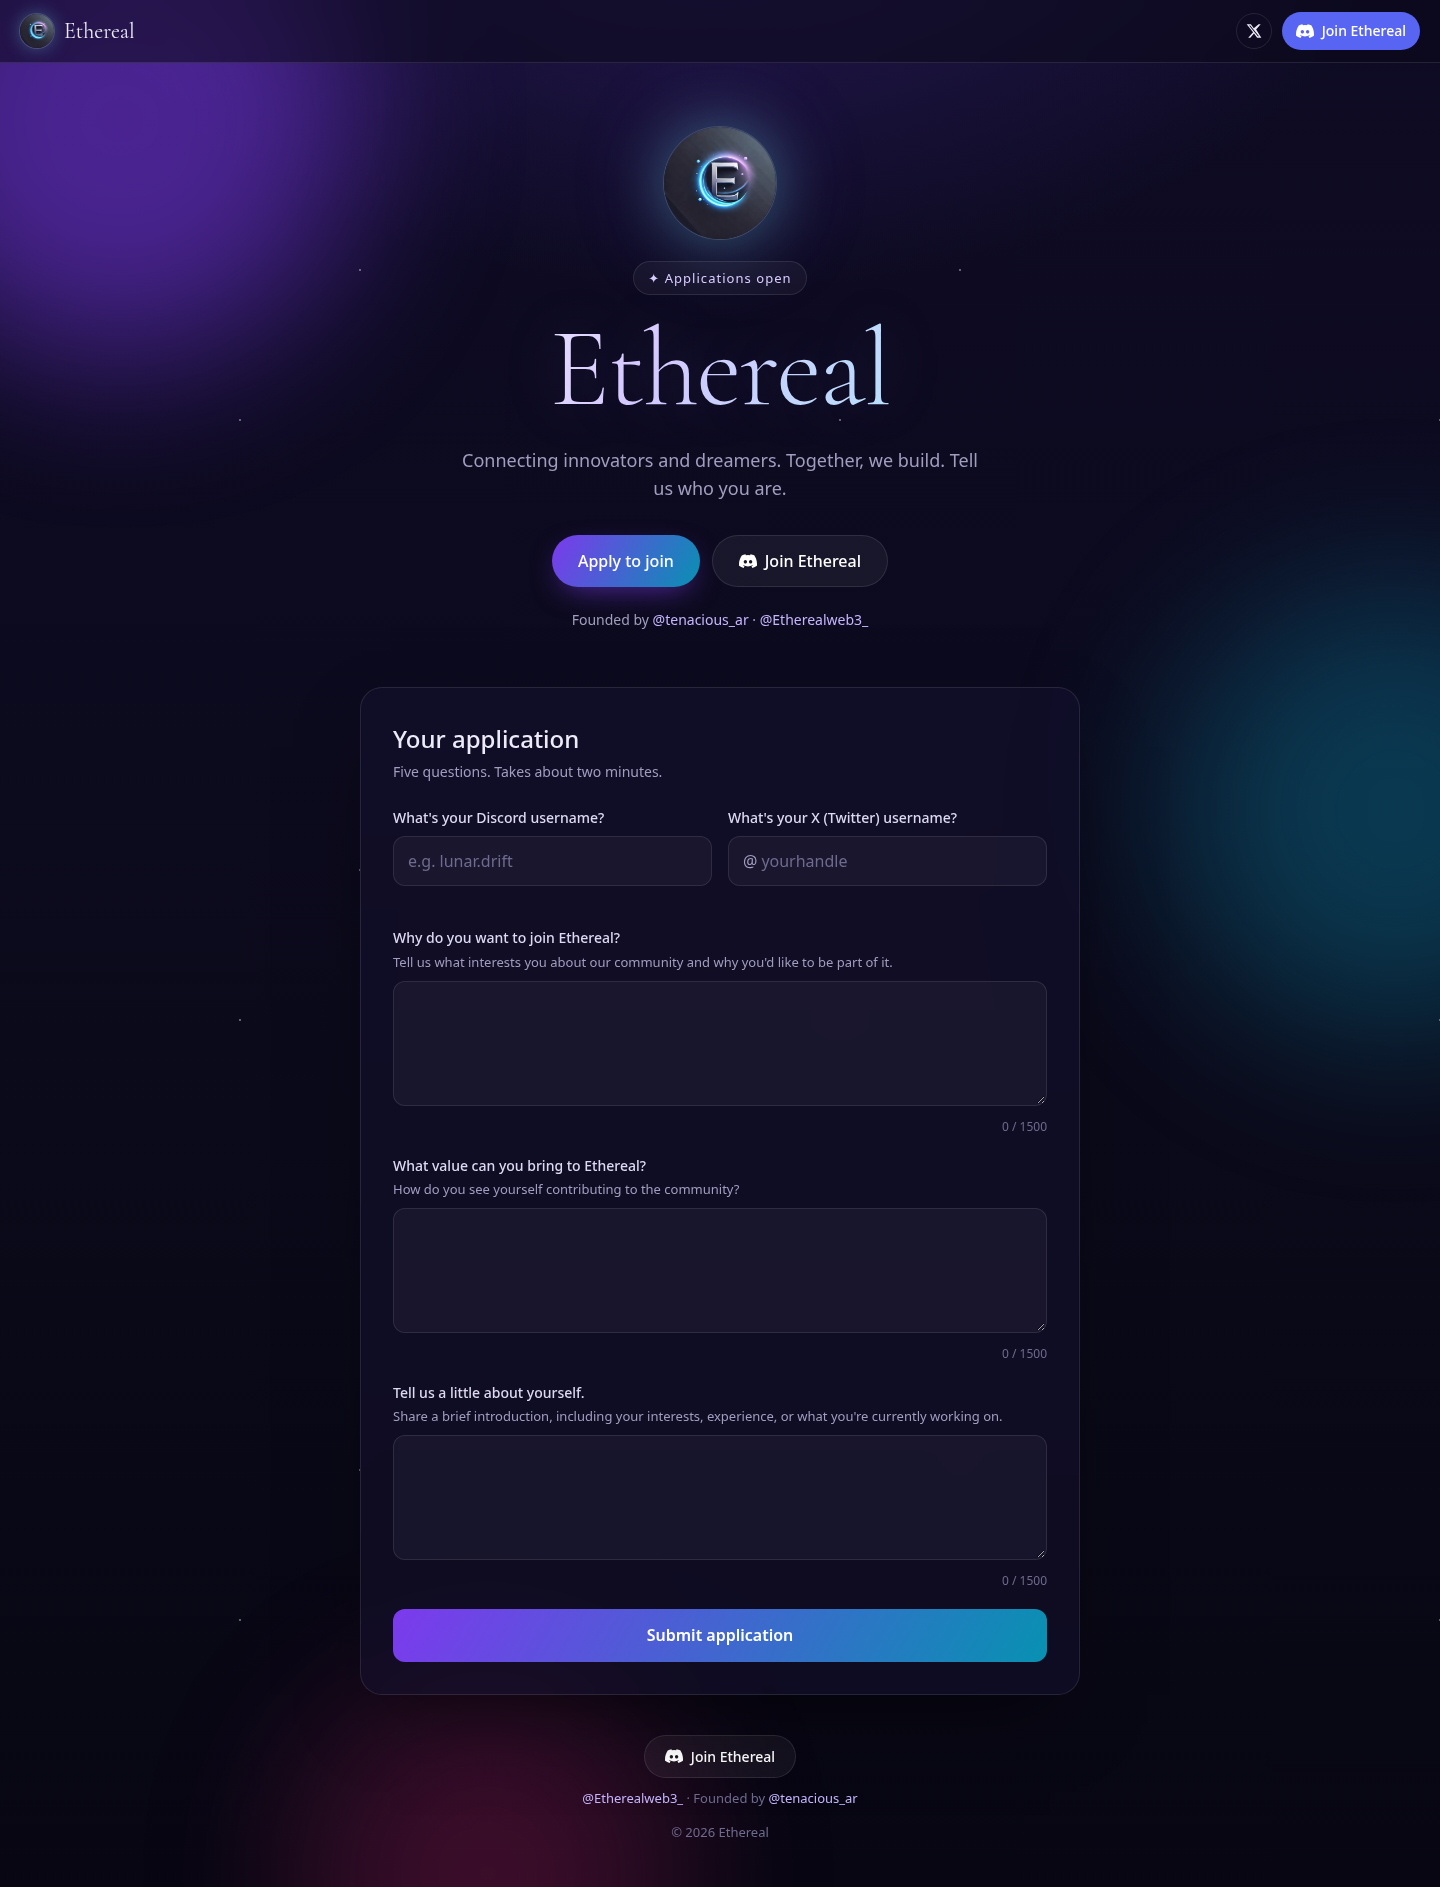
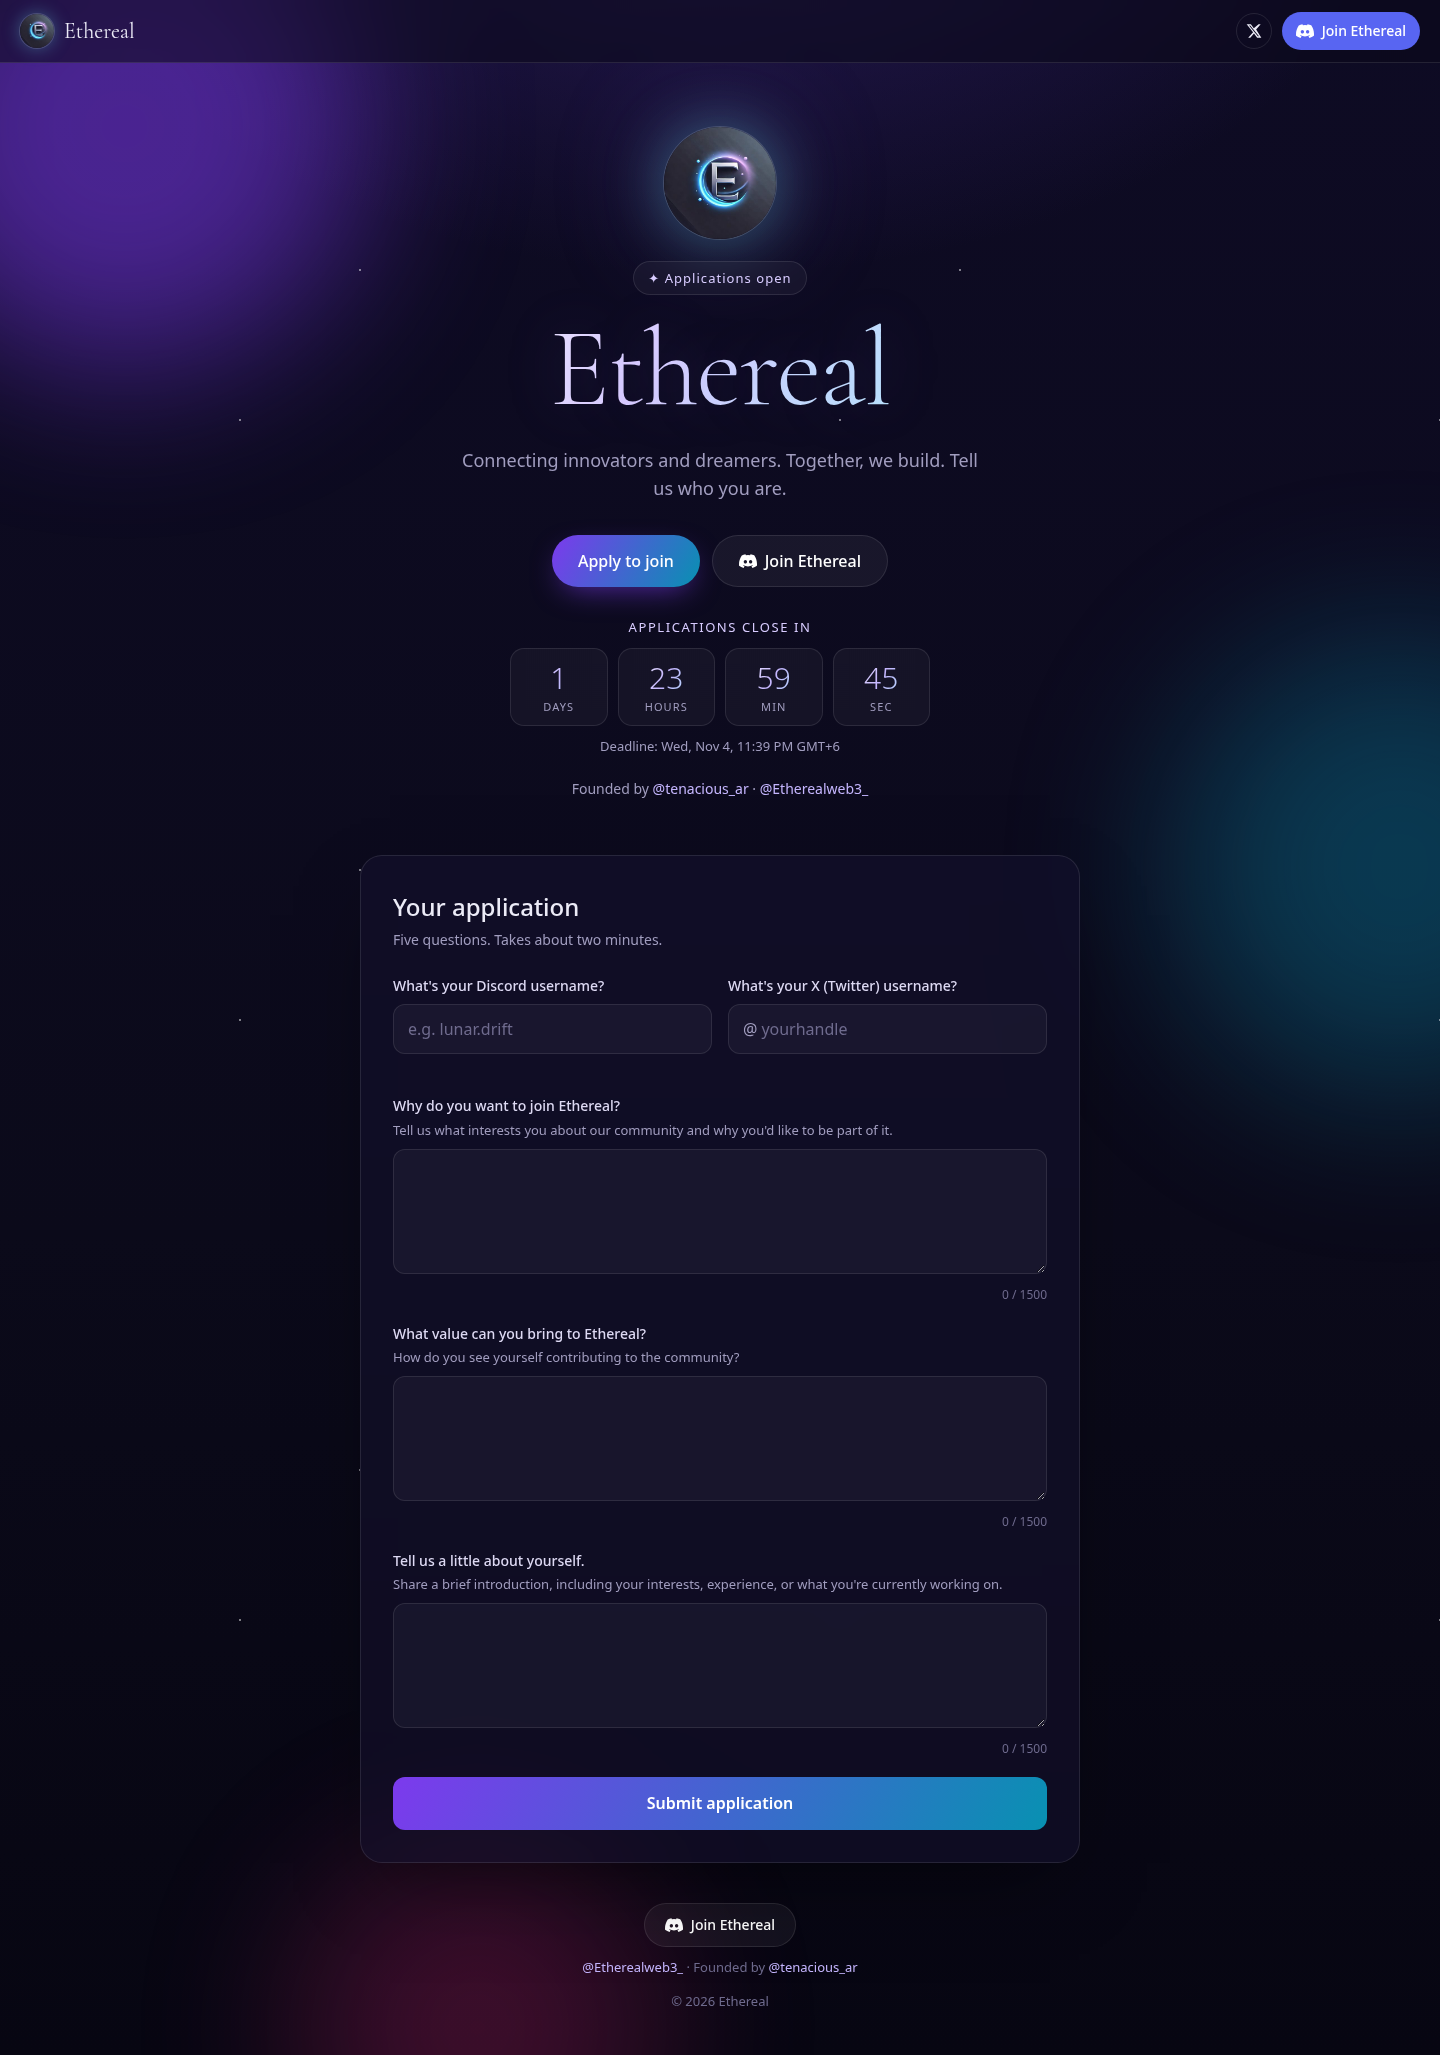
Add application deadline (APPLICATIONS_CLOSE_AT) with countdown/closed state, /api/status, admin CSV export and status header

diff --git a/server.js b/server.js
@@ -18,6 +18,12 @@ try {
 const PORT = Number(process.env.PORT) || 3000;
 const ADMIN_PASSWORD = process.env.ADMIN_PASSWORD || '';
 const DISCORD_WEBHOOK_URL = process.env.DISCORD_WEBHOOK_URL || '';
+const CLOSE_RAW = (process.env.APPLICATIONS_CLOSE_AT || '').trim();
+const CLOSE_AT = CLOSE_RAW ? new Date(CLOSE_RAW) : null;
+if (CLOSE_RAW && isNaN(CLOSE_AT)) console.warn(`APPLICATIONS_CLOSE_AT is not a valid ISO 8601 date ("${CLOSE_RAW}"); ignoring it.`);
+const closesAtISO = () => (CLOSE_AT && !isNaN(CLOSE_AT) ? CLOSE_AT.toISOString() : null);
+const isOpen = () => { const c = closesAtISO(); return !c || Date.now() < CLOSE_AT.getTime(); };
+const CLOSED_MSG = 'Applications are closed. Thank you for your interest in Ethereal!';
 const DATA_FILE = path.resolve(process.env.DATA_FILE || path.join(__dirname, 'applications.json'));
 
 const app = express();
@@ -111,7 +117,12 @@ async function postToDiscord(a) {
 }
 
 // ---------- API ----------
+app.get('/api/status', (req, res) => {
+  res.set('Cache-Control', 'no-store').json({ open: isOpen(), closesAt: closesAtISO(), now: new Date().toISOString() });
+});
+
 app.post('/api/apply', async (req, res) => {
+  if (!isOpen()) return res.status(403).json({ ok: false, closed: true, error: CLOSED_MSG });
   const body = req.body || {};
   // Honeypot: real users never fill "website". Pretend success for bots.
   if (typeof body.website === 'string' && body.website.trim() !== '') {
@@ -142,9 +153,26 @@ function requireAdmin(req, res, next) {
 }
 const esc = (s) => String(s).replace(/[&<>"']/g, (c) => ({ '&': '&amp;', '<': '&lt;', '>': '&gt;', '"': '&quot;', "'": '&#39;' }[c]));
 
+const csvCell = (v) => {
+  let t = v == null ? '' : String(v);
+  if (/^[=+\-@\t\r]/.test(t)) t = "'" + t; // guard against spreadsheet formula injection
+  return '"' + t.replace(/"/g, '""') + '"';
+};
+app.get('/admin/applications.csv', requireAdmin, (req, res) => {
+  const header = ['id', 'submitted time', 'Discord username', 'X username', 'why join', 'value', 'about'];
+  const rows = readApps().map((a) => [a.id, a.submittedAt, a.discord, a.x, a.why, a.value, a.about]);
+  const csv = '\uFEFF' + [header, ...rows].map((r) => r.map(csvCell).join(',')).join('\r\n') + '\r\n';
+  const stamp = new Date().toISOString().slice(0, 10);
+  res.set({
+    'Content-Type': 'text/csv; charset=utf-8',
+    'Content-Disposition': `attachment; filename="ethereal-applications-${stamp}.csv"`,
+    'Cache-Control': 'no-store',
+  }).send(csv);
+});
 app.get('/admin/applications.json', requireAdmin, (req, res) => res.json(readApps()));
 app.get('/admin', requireAdmin, (req, res) => {
   const apps = readApps().slice().reverse();
+  const open = isOpen(), closes = closesAtISO();
   const rows = apps.map((a) => `
     <article class="card">
       <header><span class="lbl">Discord</span> <strong>${esc(a.discord)}</strong> · <span class="lbl">X</span> · <a href="https://x.com/${esc(a.x)}" target="_blank" rel="noopener">@${esc(a.x)}</a>
@@ -164,11 +192,23 @@ h1{font-weight:600;margin:0 0 4px}.sub{color:#9a96b8;margin:0 0 24px}a{color:#c4
 .card header{display:flex;flex-wrap:wrap;gap:6px;align-items:baseline}.card time{margin-left:auto;color:#8b87a8;font-size:12px}
 h4{margin:14px 0 4px;font-size:13px;font-weight:600;color:#a78bfa}.lbl{color:#8b87a8;font-size:12px}
 p{margin:0;white-space:pre-wrap;line-height:1.5;color:#d4d1e8}
+.status{display:flex;flex-wrap:wrap;gap:10px 18px;align-items:center;margin:8px 0 14px;color:#d4d1e8}
+.pill{padding:3px 10px;border-radius:999px;font-size:12px;font-weight:600;text-transform:uppercase;letter-spacing:.06em}
+.pill.open{background:rgba(52,211,153,.15);color:#6ee7b7}.pill.closed{background:rgba(251,113,133,.15);color:#fda4af}
+.sub{display:flex;gap:14px;align-items:center}
+.btn{display:inline-block;padding:8px 14px;border-radius:10px;background:linear-gradient(120deg,#7c3aed,#0891b2);color:#fff!important;text-decoration:none;font-weight:600}
 </style></head><body>
-<h1>Applications</h1><p class="sub">${apps.length} total · <a href="/admin/applications.json">JSON</a></p>
+<h1>Applications</h1>
+<div class="status">
+  <span class="pill ${open ? 'open' : 'closed'}">${open ? 'Open' : 'Closed'}</span>
+  <span>${closes ? `${open ? 'Closes' : 'Closed'} <time id="closes" datetime="${esc(closes)}">${esc(new Date(closes).toUTCString())}</time>` : 'No deadline set (APPLICATIONS_CLOSE_AT not set)'}</span>
+  <span class="total"><strong>${apps.length}</strong> total application${apps.length === 1 ? '' : 's'}</span>
+</div>
+<p class="sub"><a class="btn" href="/admin/applications.csv">Download CSV</a> <a href="/admin/applications.json">JSON</a></p>
+<script>const t=document.getElementById('closes');if(t)t.textContent=new Date(t.dateTime).toLocaleString(undefined,{dateStyle:'full',timeStyle:'short'})+' (your local time)';</script>
 <div class="grid">${rows || '<p>No applications yet.</p>'}</div></body></html>`);
 });
 
 app.use((req, res) => res.status(404).send('Not found'));
 
-app.listen(PORT, () => console.log(`Ethereal running on http://localhost:${PORT}`));
+app.listen(PORT, () => console.log(`Ethereal running on http://localhost:${PORT}` + (closesAtISO() ? ` · applications close at ${closesAtISO()}` : '')));

diff --git a/public/index.html b/public/index.html
@@ -35,6 +35,16 @@
       <a class="cta" href="#apply">Apply to join</a>
       <a class="cta ghost" href="https://discord.gg/nZYb5DTMH" target="_blank" rel="noopener noreferrer"><svg viewBox="0 0 24 24" aria-hidden="true"><path fill="currentColor" d="M20.3 4.4A19.6 19.6 0 0 0 15.4 3l-.6 1.3a18 18 0 0 0-5.6 0L8.6 3a19.5 19.5 0 0 0-4.9 1.5C.6 9.1-.3 13.7.1 18.2a19.8 19.8 0 0 0 6 3l1.3-2.1a12.8 12.8 0 0 1-2-1l.5-.4a14 14 0 0 0 12.2 0l.5.4c-.6.4-1.3.7-2 1l1.3 2.1a19.7 19.7 0 0 0 6-3c.5-5.2-.8-9.7-3.6-13.8ZM8.5 15.4c-1.2 0-2.2-1.1-2.2-2.4s1-2.4 2.2-2.4 2.2 1.1 2.2 2.4-1 2.4-2.2 2.4Zm7 0c-1.2 0-2.2-1.1-2.2-2.4s1-2.4 2.2-2.4 2.2 1.1 2.2 2.4-1 2.4-2.2 2.4Z"/></svg>Join Ethereal</a>
     </div>
+    <div id="countdown" class="countdown" hidden aria-live="off">
+      <p class="cd-label">Applications close in</p>
+      <div class="cd-units">
+        <div><span id="cd-d">0</span><small>days</small></div>
+        <div><span id="cd-h">00</span><small>hours</small></div>
+        <div><span id="cd-m">00</span><small>min</small></div>
+        <div><span id="cd-s">00</span><small>sec</small></div>
+      </div>
+      <p class="cd-when" id="cd-when"></p>
+    </div>
     <p class="founder">Founded by <a href="https://x.com/tenacious_ar" target="_blank" rel="noopener noreferrer">@tenacious_ar</a> · <a href="https://x.com/Etherealweb3_" target="_blank" rel="noopener noreferrer">@Etherealweb3_</a></p>
   </section>
 
@@ -86,6 +96,15 @@
       <p class="form-error" id="formError" role="alert"></p>
       <button type="submit" id="submit"><span>Submit application</span></button>
     </form>
+
+    <div id="closed" class="success closed" hidden>
+      <img class="check" src="/logo.jpg" alt="" width="72" height="72">
+      <h2>Applications are now closed.</h2>
+      <p>Thank you for your interest in Ethereal!</p>
+      <p class="cd-when" id="closed-when"></p>
+      <a class="cta discord" href="https://discord.gg/nZYb5DTMH" target="_blank" rel="noopener noreferrer"><svg viewBox="0 0 24 24" aria-hidden="true"><path fill="currentColor" d="M20.3 4.4A19.6 19.6 0 0 0 15.4 3l-.6 1.3a18 18 0 0 0-5.6 0L8.6 3a19.5 19.5 0 0 0-4.9 1.5C.6 9.1-.3 13.7.1 18.2a19.8 19.8 0 0 0 6 3l1.3-2.1a12.8 12.8 0 0 1-2-1l.5-.4a14 14 0 0 0 12.2 0l.5.4c-.6.4-1.3.7-2 1l1.3 2.1a19.7 19.7 0 0 0 6-3c.5-5.2-.8-9.7-3.6-13.8ZM8.5 15.4c-1.2 0-2.2-1.1-2.2-2.4s1-2.4 2.2-2.4 2.2 1.1 2.2 2.4-1 2.4-2.2 2.4Zm7 0c-1.2 0-2.2-1.1-2.2-2.4s1-2.4 2.2-2.4 2.2 1.1 2.2 2.4-1 2.4-2.2 2.4Z"/></svg>Join our Discord</a>
+      <p><a href="https://discord.gg/nZYb5DTMH" target="_blank" rel="noopener noreferrer">https://discord.gg/nZYb5DTMH</a></p>
+    </div>
 
     <div id="success" class="success" hidden>
       <img class="check" src="/logo.jpg" alt="" width="72" height="72">

diff --git a/public/app.js b/public/app.js
@@ -36,6 +36,46 @@
     });
   }
 
+  // ---------- deadline / countdown ----------
+  const $ = (id) => document.getElementById(id);
+  const closed = $('closed'), cd = $('countdown'), eyebrow = document.querySelector('.eyebrow');
+  let closesAt = null, skew = 0, timer = null;
+  const fmtLocal = (d) => d.toLocaleString(undefined, { weekday: 'short', month: 'short', day: 'numeric', hour: 'numeric', minute: '2-digit', timeZoneName: 'short' });
+  const pad = (n) => String(n).padStart(2, '0');
+
+  function showClosed() {
+    clearInterval(timer);
+    form.hidden = true; success.hidden = true; closed.hidden = false; cd.hidden = true;
+    if (eyebrow) eyebrow.textContent = '✦ Applications closed';
+    if (closesAt) $('closed-when').textContent = `Closed ${fmtLocal(closesAt)}`;
+    const cta = document.querySelector('.ctas .cta[href="#apply"]'); if (cta) cta.hidden = true;
+  }
+  function tick() {
+    const ms = closesAt.getTime() - (Date.now() + skew);
+    if (ms <= 0) {
+      clearInterval(timer);
+      if (!success.hidden) { cd.hidden = true; return; }
+      // Don't yank the form away from someone mid-typing; the server will reject on submit.
+      const typing = ['discord', 'x', 'why', 'value', 'about'].some((k) => form.elements[k].value.trim());
+      if (typing) { cd.querySelector('.cd-label').textContent = 'Applications have closed'; cd.querySelector('.cd-units').hidden = true; }
+      else showClosed();
+      return;
+    }
+    const t = Math.floor(ms / 1000);
+    $('cd-d').textContent = Math.floor(t / 86400);
+    $('cd-h').textContent = pad(Math.floor(t / 3600) % 24);
+    $('cd-m').textContent = pad(Math.floor(t / 60) % 60);
+    $('cd-s').textContent = pad(t % 60);
+  }
+  fetch('/api/status', { cache: 'no-store' }).then((r) => r.json()).then((st) => {
+    if (st.now) skew = new Date(st.now).getTime() - Date.now(); // align with server clock
+    if (st.closesAt) closesAt = new Date(st.closesAt);
+    if (!st.open) return showClosed();
+    if (!closesAt) return;
+    $('cd-when').textContent = `Deadline: ${fmtLocal(closesAt)}`;
+    cd.hidden = false; tick(); timer = setInterval(tick, 1000);
+  }).catch(() => {});
+
   form.addEventListener('submit', async (e) => {
     e.preventDefault();
     formError.textContent = '';
@@ -55,6 +95,7 @@
         success.scrollIntoView({ behavior: 'smooth', block: 'center' });
         return;
       }
+      if (res.status === 403 && data.closed) { showClosed(); return; }
       if (data.errors) for (const [k, m] of Object.entries(data.errors)) setErr(k, m);
       formError.textContent = data.error || (data.errors ? 'Please fix the highlighted fields.' : 'Something went wrong. Please try again.');
     } catch {

diff --git a/public/styles.css b/public/styles.css
@@ -1,3 +1,4 @@
+[hidden]{display:none!important}
 :root{
   --bg:#0b0a1a;--text:#ecebf7;--muted:#a19dbf;--line:rgba(255,255,255,.1);
   --accent:#a78bfa;--accent2:#67e8f9;--err:#fda4af;
@@ -116,3 +117,15 @@ footer p{margin:4px 0}
   .btn-sm span{display:none}.btn-sm{padding:9px}
   .logo{width:92px;height:92px}
 }
+
+/* countdown */
+.countdown{margin:30px auto 0;max-width:420px}
+.cd-label{margin:0 0 10px;font-size:13px;letter-spacing:.12em;text-transform:uppercase;color:#d8ccff}
+.cd-units{display:grid;grid-template-columns:repeat(4,1fr);gap:10px}
+.cd-units div{padding:12px 4px 10px;border:1px solid var(--line);border-radius:14px;background:rgba(255,255,255,.04);backdrop-filter:blur(6px)}
+.cd-units span{display:block;font-size:30px;font-weight:300;line-height:1.1;font-variant-numeric:tabular-nums;
+  background:linear-gradient(120deg,#fff,#c4b5fd 50%,#a5f3fc);-webkit-background-clip:text;background-clip:text;color:transparent}
+.cd-units small{display:block;margin-top:4px;font-size:11px;letter-spacing:.1em;text-transform:uppercase;color:var(--muted)}
+.cd-when{margin:10px 0 0;font-size:13px;color:var(--muted)}
+.closed h2{margin-bottom:8px}
+@media (max-width:600px){.cd-units span{font-size:24px}}

diff --git a/README.md b/README.md
@@ -27,7 +27,8 @@ The logo / favicon is `public/logo.jpg` (the @Etherealweb3_ X profile picture, 4
 - Spam protection: hidden honeypot field + rate limit (3 submissions / 15 min per IP)
 - Every application appended to `applications.json` with an ISO timestamp and id
 - Optional: each application posted as an embed to a Discord channel via webhook
-- Password-protected `/admin` page (HTTP basic auth) listing applications; raw JSON at `/admin/applications.json`
+- Optional application deadline (`APPLICATIONS_CLOSE_AT`): live countdown on the page, form replaced by a "closed" message afterwards, enforced server-side (403)
+- Password-protected `/admin` page (HTTP basic auth) listing applications, open/closed status, closing time and total count; **Download CSV** at `/admin/applications.csv`, raw JSON at `/admin/applications.json`
 
 ## Run locally
 Requires Node 18+.
@@ -46,7 +47,23 @@ Admin: open `http://localhost:3000/admin`, any username, password = `ADMIN_PASSW
 | `PORT` | no (default 3000) | Port to listen on |
 | `ADMIN_PASSWORD` | for `/admin` | Basic-auth password. `/admin` is disabled if unset |
 | `DISCORD_WEBHOOK_URL` | no | Discord channel webhook (Channel settings → Integrations → Webhooks → Copy URL) |
+| `APPLICATIONS_CLOSE_AT` | no | ISO 8601 deadline, e.g. `2026-11-05T00:00:00+06:00` or `2026-11-04T18:00:00Z`. Always include a timezone. Unset = always open |
 | `DATA_FILE` | no | Path of the JSON store (default `./applications.json`) |
+
+## Application deadline
+Set `APPLICATIONS_CLOSE_AT` to close applications at a fixed moment (server time is the source of truth):
+- `GET /api/status` → `{ "open": true, "closesAt": "2026-11-05T00:00:00.000Z", "now": "..." }`
+- While open, the page shows "Applications close in D/H/M/S" and the deadline in the visitor's local time.
+- After the deadline, `POST /api/apply` returns `403` (`{"ok":false,"closed":true,...}`) and the page shows
+  "Applications are now closed. Thank you for your interest in Ethereal!" with the Discord button.
+- To set a 48-hour window, take the start time and add 48 hours, e.g. opening at
+  2026-11-03 00:00 Dhaka time → `APPLICATIONS_CLOSE_AT=2026-11-05T00:00:00+06:00`.
+  Quick helper: `node -e "console.log(new Date(Date.now()+48*3600e3).toISOString())"`.
+- On Render: Service → Environment → add the variable → Save (the service redeploys).
+
+## Viewing applications
+Open `https://<your-site>/admin`, sign in with any username and `ADMIN_PASSWORD`.
+Use **Download CSV** to open all answers in Excel / Google Sheets.
 
 ## Deploy
 
